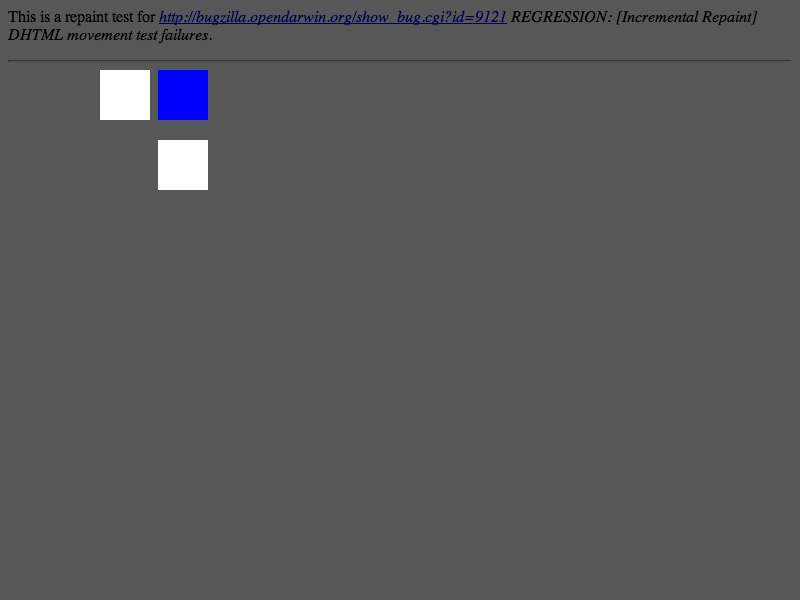
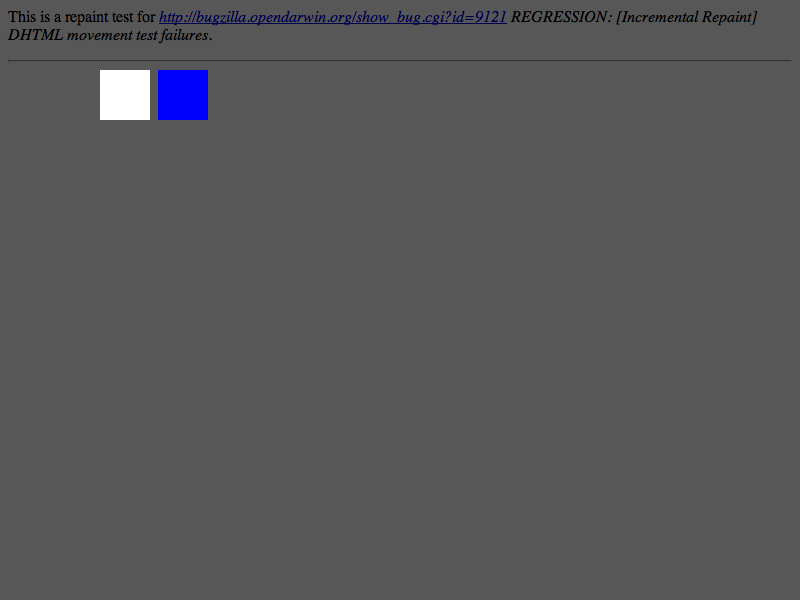
LayoutTests:
Reviewed by Hyatt.  Patch by Mitz.

        - test and updated results for http://bugzilla.opendarwin.org/show_bug.cgi?id=9497
          REGRESSION: Incomplete repainting when scrolling thumbnails on Flickr

        * fast/repaint/clipped-relative-expected.checksum: Added.
        * fast/repaint/clipped-relative-expected.png: Added.
        * fast/repaint/clipped-relative-expected.txt: Added.
        * fast/repaint/clipped-relative.html: Added.
        * fast/repaint/containing-block-position-change-expected.checksum: Updated.
        * fast/repaint/containing-block-position-change-expected.png: Updated.

WebCore:

        Reviewed by Hyatt.  Patch by Mitz.

        - fix http://bugzilla.opendarwin.org/show_bug.cgi?id=9497
          REGRESSION: Incomplete repainting when scrolling thumbnails on Flickr

        Test: fast/repaint/clipped-relative.html

        * page/FrameView.cpp:
        (WebCore::FrameView::layout):
        * rendering/RenderBlock.cpp:
        (WebCore::RenderBlock::removePositionedObjects): Removed call to computeRepaintRects().
        Previously, it was needed to update the cached rects before RenderBox::setStyle()
        called updateLayerPositions().
        * rendering/RenderBox.cpp:
        (WebCore::RenderBox::setStyle): Changed to call updateLayerPositions() for a newly-
        created layer only if it does not need layout. Otherwise,  updateLayerPositions() will
        be called after layout. This saves a repaint in some cases.
[…]

Changed region(s): [[0.1875, 0.21, 0.2812, 0.33]]

diff --git a/LayoutTests/fast/repaint/clipped-relative.html b/LayoutTests/fast/repaint/clipped-relative.html
@@ -1,0 +1,24 @@
+<html>
+<head>
+	<script src="repaint.js" type="text/javascript"></script>
+	<script type="text/javascript">
+	   function repaintTest()
+	   {
+           document.getElementById('i').style.left = '430px'
+	   }
+	</script>
+</head>
+<body onload="runRepaintTest();">
+    <p>
+        This is a repaint test for <i><a href="http://bugzilla.opendarwin.org/show_bug.cgi?id=9121">http://bugzilla.opendarwin.org/show_bug.cgi?id=9121</a>
+        REGRESSION: [Incremental Repaint] DHTML movement test failures</i>.
+    </p>
+    <hr>
+    <div style="position: relative; overflow: hidden; width: 214px; height: 232px;">
+        <div id="i" style="position: relative; left: 320px;">
+            <div style="position: absolute; left: -440px; width: 214px; height: 232px;">
+                <img src="resources/apple.jpg">
+            </div>
+        </div>
+    </div>
+</body>

diff --git a/WebCore/rendering/RenderLayer.cpp b/WebCore/rendering/RenderLayer.cpp
@@ -165,16 +165,11 @@ RenderLayer::~RenderLayer()
     assert(!m_clipRects);
 }
 
-void RenderLayer::computeRepaintRects()
+void RenderLayer::checkForRepaintOnResize()
 {
-    // FIXME: Child object could override visibility.
-    if (m_object->style()->visibility() == VISIBLE) {
-        m_repaintOverflowOnResize = m_object->selfNeedsLayout() || m_object->hasOverflowClip() && m_object->normalChildNeedsLayout();
-        m_object->getAbsoluteRepaintRectIncludingFloats(m_repaintRect, m_fullRepaintRect);
-        m_object->absolutePosition(m_repaintX, m_repaintY);
-    }
+    m_repaintOverflowOnResize = m_object->selfNeedsLayout() || m_object->hasOverflowClip() && m_object->normalChildNeedsLayout();
     for (RenderLayer* child = firstChild(); child; child = child->nextSibling())
-        child->computeRepaintRects();
+        child->checkForRepaintOnResize();
 }
 
 void RenderLayer::updateLayerPositions(bool doFullRepaint, bool checkForRepaint)
@@ -199,23 +194,30 @@ void RenderLayer::updateLayerPositions(bool doFullRepaint, bool checkForRepaint)
     }
 
     // FIXME: Child object could override visibility.
-    if (checkForRepaint && (m_object->style()->visibility() == VISIBLE)) {
-        RenderView *c = m_object->view();
-        if (c && !c->printingMode()) {
-            int x, y;
-            m_object->absolutePosition(x, y);
-            IntRect newRect, newFullRect;
-            bool didMove = x != m_repaintX || y != m_repaintY;
-            if (!didMove && !m_repaintOverflowOnResize)
-                m_object->repaintAfterLayoutIfNeeded(m_repaintRect, m_fullRepaintRect);
-            else {
-                m_object->getAbsoluteRepaintRectIncludingFloats(newRect, newFullRect);
-                if (didMove || newRect != m_repaintRect) {
+    if (m_object->style()->visibility() == VISIBLE) {
+        int x, y;
+        m_object->absolutePosition(x, y);
+        IntRect newRect, newFullRect;
+        m_object->getAbsoluteRepaintRectIncludingFloats(newRect, newFullRect);
+        if (checkForRepaint) {
+            RenderView *c = m_object->view();
+            if (c && !c->printingMode()) {
+                bool didMove = x != m_repaintX || y != m_repaintY;
+                if (!didMove && !m_repaintOverflowOnResize)
+                    m_object->repaintAfterLayoutIfNeeded(m_repaintRect, m_fullRepaintRect);
+                else if (didMove || newRect != m_repaintRect) {
                     c->repaintViewRectangle(m_fullRepaintRect);
                     c->repaintViewRectangle(newFullRect);
                 }
             }
         }
+        m_repaintRect = newRect;
+        m_fullRepaintRect = newFullRect;
+        m_repaintX = x;
+        m_repaintY = y;
+    } else {
+        m_repaintRect = IntRect();
+        m_fullRepaintRect = IntRect();
     }
     
     for (RenderLayer* child = firstChild(); child; child = child->nextSibling())

diff --git a/WebCore/rendering/RenderBlock.cpp b/WebCore/rendering/RenderBlock.cpp
@@ -1780,10 +1780,8 @@ void RenderBlock::removePositionedObjects(RenderBlock* o)
     DeprecatedPtrListIterator<RenderObject> it(*m_positionedObjects);
     while (it.current()) {
         if (!o || it.current()->hasAncestor(o)) {
-            if (o) {
+            if (o)
                 it.current()->setChildNeedsLayout(true, false);
-                it.current()->layer()->computeRepaintRects();
-            }
             m_positionedObjects->removeRef(it.current());
         } else
             ++it;

diff --git a/WebCore/rendering/RenderBox.cpp b/WebCore/rendering/RenderBox.cpp
@@ -124,7 +124,7 @@ void RenderBox::setStyle(RenderStyle *_style)
             }
             m_layer = new (renderArena()) RenderLayer(this);
             m_layer->insertOnlyThisLayer();
-            if (parent() && containingBlock())
+            if (parent() && !needsLayout() && containingBlock())
                 m_layer->updateLayerPositions();
         }
     } else if (m_layer && !isRoot() && !isRenderView()) {

diff --git a/WebCore/rendering/RenderLayer.h b/WebCore/rendering/RenderLayer.h
@@ -256,7 +256,7 @@ public:
     
     void updateLayerPosition();
     void updateLayerPositions(bool doFullRepaint = false, bool checkForRepaint=true);
-    void computeRepaintRects();
+    void checkForRepaintOnResize();
     void relativePositionOffset(int& relX, int& relY) {
         relX += m_relX; relY += m_relY;
     }

diff --git a/WebCore/page/FrameView.cpp b/WebCore/page/FrameView.cpp
@@ -435,7 +435,7 @@ void FrameView::layout(bool allowSubtree)
     RenderLayer* layer = root->enclosingLayer();
      
     if (!d->doFullRepaint) {
-        layer->computeRepaintRects();
+        layer->checkForRepaintOnResize();
         root->repaintObjectsBeforeLayout();
     }
 
